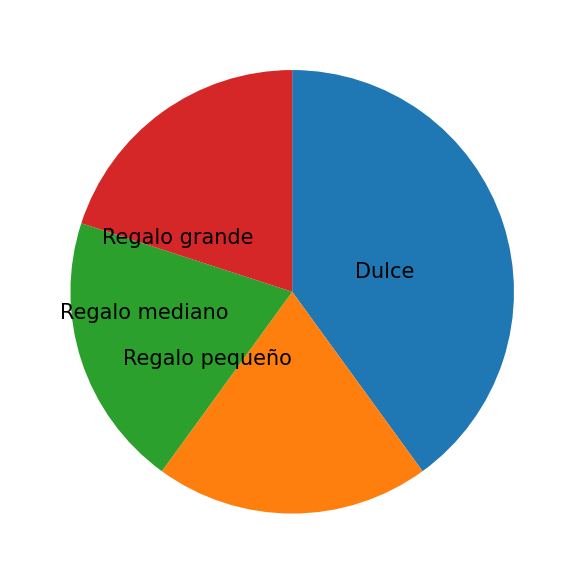
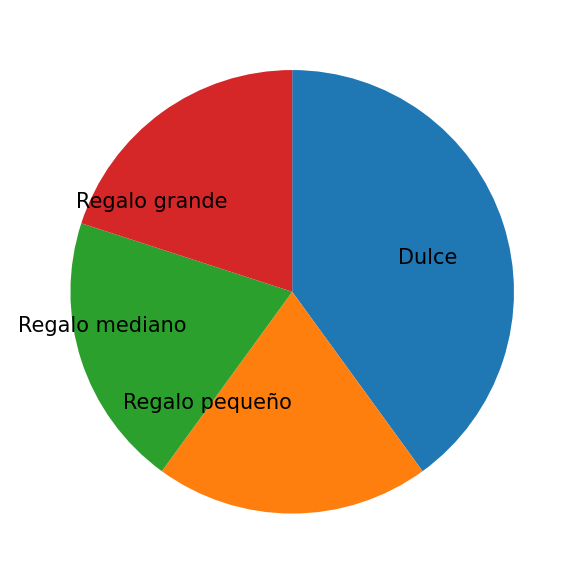
Funciona democracia

diff --git a/servidor/static/js/democracy_board.js b/servidor/static/js/democracy_board.js
@@ -16,13 +16,15 @@ async function play_game()
 {
     await load_board();
     await create_teams();
-    await new Promise(r => setTimeout(r, 10000)); //Wait 10 seconds
+    await new Promise(r => setTimeout(r, 5000)); //Wait 10 seconds
+    tell_server_to_start_listening_calls()
+    await new Promise(r => setTimeout(r, 5000)); //Wait 10 seconds
     await countdown();
     await start_game();
     await new Promise(r => setTimeout(r, 5000)); //Wait 5 seconds
     console.log(colors_per_second)
     send_colors_per_second();
-    await new Promise(r => setTimeout(r, 5000)); //Wait 5 seconds
+    await new Promise(r => setTimeout(r, 10000)); //Wait 5 seconds
     window.location.href = "../ranking/";
     
 }
@@ -146,7 +148,6 @@ function move_character(x_moves, y_moves)
 
 async function start_game()
 {
-    tell_server_to_start_listening_calls()
     round = 0;
     max_rounds = 30;
     while(round < max_rounds)
@@ -155,6 +156,7 @@ async function start_game()
         move_with_democracy();
         round += 1;
     }
+    await new Promise(r => setTimeout(r, 2000)); //Wait 1 seconds
     tell_server_to_stop_listening_calls()
 }
 
@@ -191,9 +193,9 @@ async function move_with_democracy()
 async function send_colors_per_second()
 {
     response = await $.ajax({
-        url: "/send_colors_per_second",
-        type: "POST",
-        data: JSON.stringify(colors_per_second),
+        url: "../send_colors_per_second",
+        type: "GET",
+        data: {'colors_per_second': JSON.stringify(colors_per_second)},
         contentType: 'application/json;charset=UTF-8'
     });
 

diff --git a/servidor/static/js/democracy_interaction.js b/servidor/static/js/democracy_interaction.js
@@ -5,6 +5,8 @@ if(player_name == null) //If the player is not logged in, redirect to the login 
     window.location.href = "../";
 }
 
+go_to_wait_screen_after_game();
+
 function send_move(move)
 {
     console.log(move)
@@ -29,4 +31,11 @@ function get_my_team()
             console.log(response)
         }
     });
+}
+
+
+async function go_to_wait_screen_after_game()
+{
+    await new Promise(r => setTimeout(r, 42000));
+    window.location.href = "../wait/";
 }

diff --git a/servidor/hangman_controller.py b/servidor/hangman_controller.py
@@ -79,17 +79,15 @@ def get_censured_sentence():
     return censured_sentence
 
 # Register player guessed letter and apperances only if it is the turn of the player
-def register_player_guess(guess):
+def register_player_guess(guess, player_name):
     valid_guess = False
     listen_client_calls = main_controller.get_listen_client_calls()
     if(listen_client_calls):
-        guess = json.loads(guess) #Convert json to dict
         main_controller.get_players_lock().acquire()
-        player = main_controller.get_player(guess['player_name'])
+        player = main_controller.get_player(player_name)
         if(player != None): 
-            
             player_id = player.id
-            guess = guess['letter'].lower()
+            guess = guess.lower()
             if(guess not in guessed_letters): # If the letter has not been guessed yet
                 
                 valid_guess = True
@@ -105,8 +103,8 @@ def register_player_guess(guess):
 
                 elif(len(guess) == 1): # If the guess is a letter guess
                     
-                    player_guessed_letters[player_id - 1] = guess['letter']
-                    num_apperances = sentence.count(guess['letter'])
+                    player_guessed_letters[player_id - 1] = guess
+                    num_apperances = sentence.count(guess)
                     round_player_guess_appearances[player_id - 1] = num_apperances
                     player_cumulative_appearances[player_id - 1] += num_apperances
 

diff --git a/servidor/democracy_controller.py b/servidor/democracy_controller.py
@@ -4,7 +4,7 @@ import json
 from . import main_controller
 import random
 
-num_moves_per_step = 3
+num_moves_per_step = 1
 team_names = ['Azul', 'Naranja']
 teams = [[], []]
 coins_per_second = 5
@@ -66,6 +66,8 @@ def get_my_team(player_name):
     return None
 
 def send_colors_per_second(colors_per_second):
+    print(colors_per_second)
+    colors_per_second = json.loads(colors_per_second)
     number_blue = 0
     number_orange = 0
     winner_msj = "¡Ha habido un empate!"
@@ -93,9 +95,8 @@ def send_colors_per_second(colors_per_second):
 # Give prizes to the winner team
 def give_prizes(winner_team, winner_advantage):
     main_controller.get_players_lock().acquire()
-    for team in teams[winner_team]:
-        for player in team:
-            player.coins += winner_advantage * coins_per_second
+    for player in teams[winner_team]:
+        player.coins += winner_advantage * coins_per_second
     main_controller.get_players_lock().release()
 
     

diff --git a/servidor/main_controller.py b/servidor/main_controller.py
@@ -150,7 +150,7 @@ def create_prizes_roulette():
 
     sizes = np.array(sizes)
 
-    create_roulette_image(labels, sizes, 90, False, 0.3, 'prizes_roulette')
+    create_roulette_image(labels, sizes, 90, False, 0.5, 'prizes_roulette')
 
 # Creates the roulette image (first delete it if it exists)
 def create_roulette_image(labels, sizes, startangle, counterclock, labeldistance, filename):

diff --git a/servidor/hangman_views.py b/servidor/hangman_views.py
@@ -16,7 +16,8 @@ def create_sentence(request):
 
 def send_player_guess(request):
     guess = request.GET.get('guess')
-    hangman_controller.register_player_guess(guess)
+    player_name = request.GET.get('player_name')
+    hangman_controller.register_player_guess(guess, player_name)
     return JsonResponse({'status': 'ok'}, safe=False)
 
 def perform_step(request):

diff --git a/servidor/democracy_views.py b/servidor/democracy_views.py
@@ -32,5 +32,5 @@ def get_my_team(request):
 
 def send_colors_per_second(request):
     colors_per_second = request.GET.get('colors_per_second')
-    winner_msj = main_controller.set_colors_per_second(colors_per_second)
+    winner_msj = democracy_controller.send_colors_per_second(colors_per_second)
     return JsonResponse({'winner_msj': winner_msj}, safe=False)
